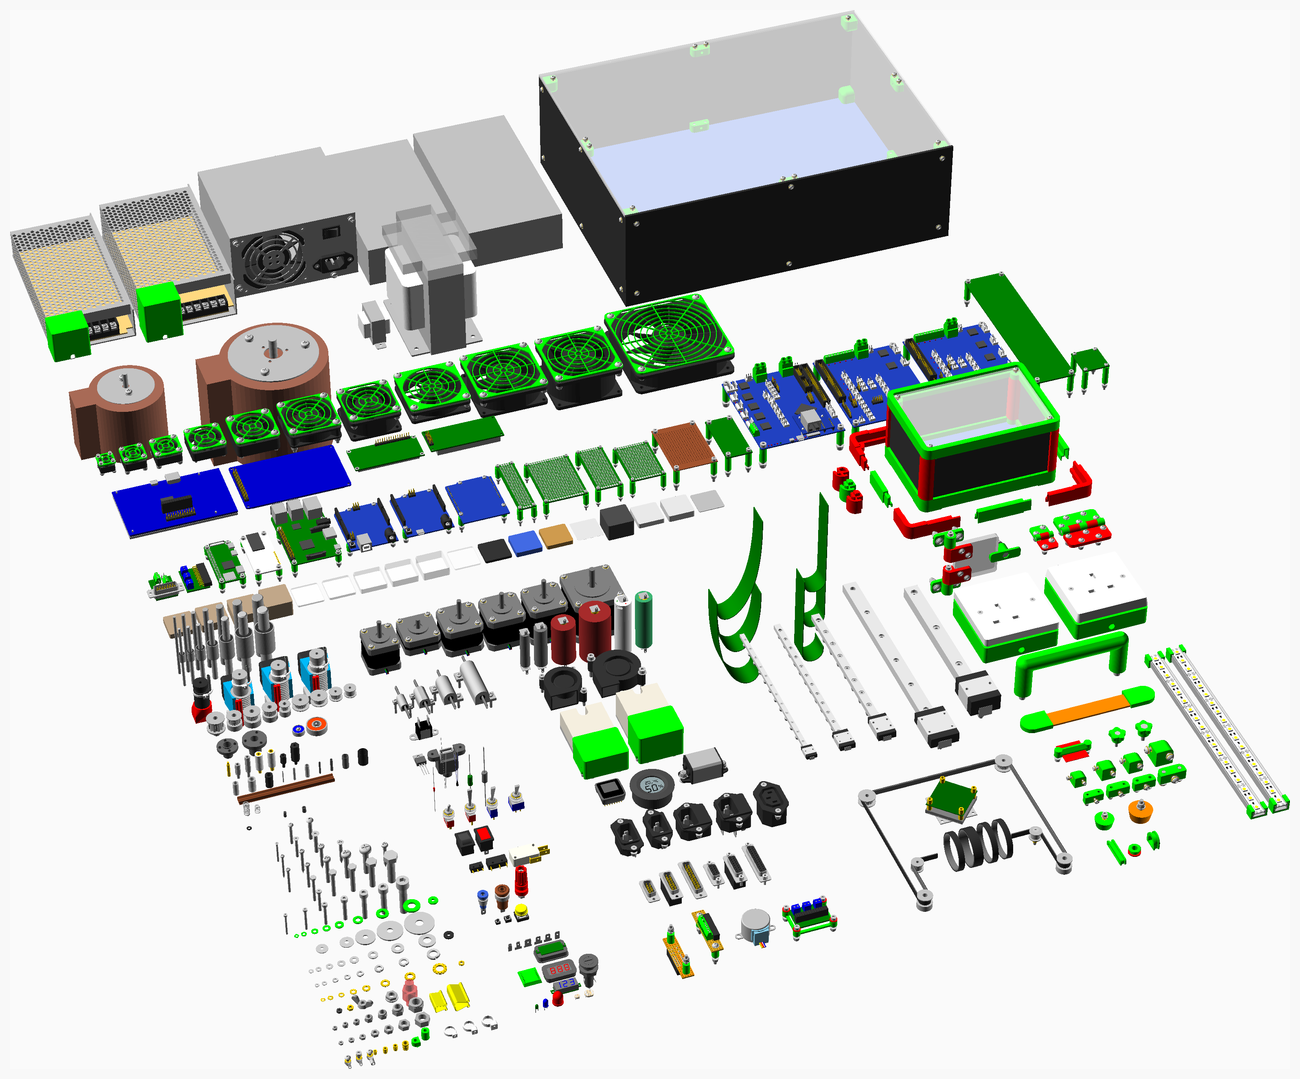
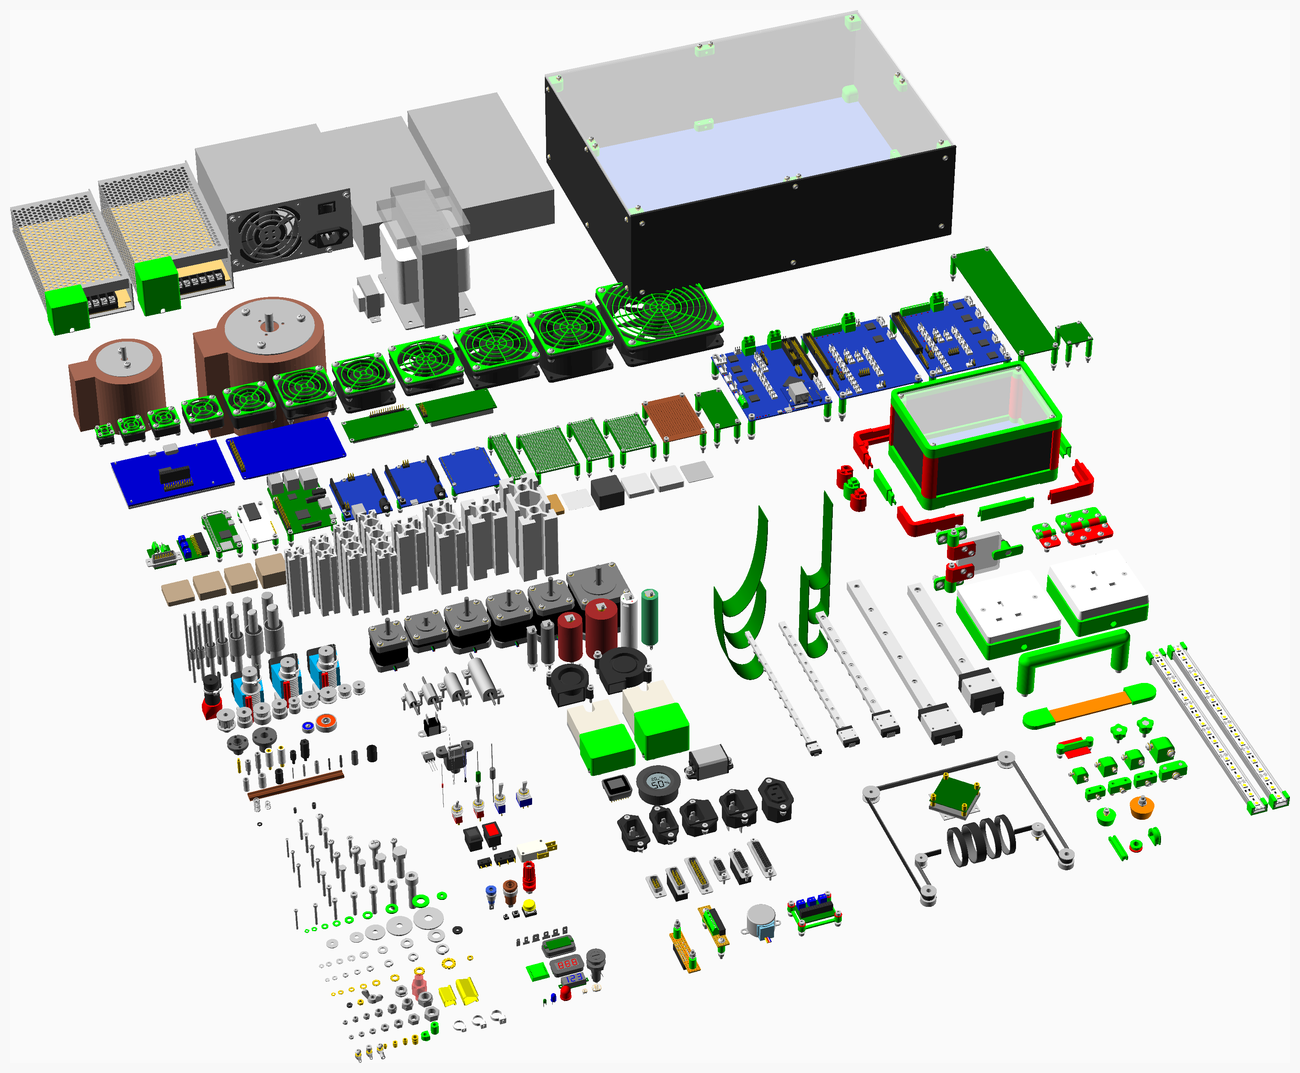
Added pictures and documentation for extrusions.

diff --git a/readme.md b/readme.md
@@ -28,24 +28,25 @@ See [usage](docs/usage.md) for requirements, installation instructions and a usa
 <tr><td> <a href = "#Components">Components</a> </td><td> <a href = "#Pulleys">Pulleys</a> </td><td> <a href = "#Fan_guard">Fan_guard</a> </td><td> <a href = "#Offset">Offset</a> </td><td></td></tr>
 <tr><td> <a href = "#D_connectors">D_connectors</a> </td><td> <a href = "#Rails">Rails</a> </td><td> <a href = "#Fixing_block">Fixing_block</a> </td><td> <a href = "#Quadrant">Quadrant</a> </td><td></td></tr>
 <tr><td> <a href = "#Displays">Displays</a> </td><td> <a href = "#Ring_terminals">Ring_terminals</a> </td><td> <a href = "#Flat_hinge">Flat_hinge</a> </td><td> <a href = "#Round">Round</a> </td><td></td></tr>
-<tr><td> <a href = "#Fans">Fans</a> </td><td> <a href = "#Rockers">Rockers</a> </td><td> <a href = "#Foot">Foot</a> </td><td> <a href = "#Rounded_cylinder">Rounded_cylinder</a> </td><td></td></tr>
-<tr><td> <a href = "#Fuseholder">Fuseholder</a> </td><td> <a href = "#Rod">Rod</a> </td><td> <a href = "#Handle">Handle</a> </td><td> <a href = "#Rounded_polygon">Rounded_polygon</a> </td><td></td></tr>
-<tr><td> <a href = "#Geared_steppers">Geared_steppers</a> </td><td> <a href = "#Screws">Screws</a> </td><td> <a href = "#Pcb_mount">Pcb_mount</a> </td><td> <a href = "#Sector">Sector</a> </td><td></td></tr>
-<tr><td> <a href = "#Green_terminals">Green_terminals</a> </td><td> <a href = "#Sealing_strip">Sealing_strip</a> </td><td> <a href = "#Psu_shroud">Psu_shroud</a> </td><td> <a href = "#Sweep">Sweep</a> </td><td></td></tr>
-<tr><td> <a href = "#Hot_ends">Hot_ends</a> </td><td> <a href = "#Sheets">Sheets</a> </td><td> <a href = "#Ribbon_clamp">Ribbon_clamp</a> </td><td> <a href = "#Tube">Tube</a> </td><td></td></tr>
-<tr><td> <a href = "#Hygrometer">Hygrometer</a> </td><td> <a href = "#Spades">Spades</a> </td><td> <a href = "#Screw_knob">Screw_knob</a> </td><td></td><td></td></tr>
-<tr><td> <a href = "#Iecs">Iecs</a> </td><td> <a href = "#Spools">Spools</a> </td><td> <a href = "#Socket_box">Socket_box</a> </td><td></td><td></td></tr>
-<tr><td> <a href = "#Inserts">Inserts</a> </td><td> <a href = "#Springs">Springs</a> </td><td> <a href = "#Ssr_shroud">Ssr_shroud</a> </td><td></td><td></td></tr>
-<tr><td> <a href = "#Jack">Jack</a> </td><td> <a href = "#Ssrs">Ssrs</a> </td><td> <a href = "#Strap_handle">Strap_handle</a> </td><td></td><td></td></tr>
-<tr><td> <a href = "#Ldrs">Ldrs</a> </td><td> <a href = "#Stepper_motors">Stepper_motors</a> </td><td></td><td></td><td></td></tr>
-<tr><td> <a href = "#Leadnuts">Leadnuts</a> </td><td> <a href = "#Toggles">Toggles</a> </td><td></td><td></td><td></td></tr>
-<tr><td> <a href = "#Leds">Leds</a> </td><td> <a href = "#Transformers">Transformers</a> </td><td></td><td></td><td></td></tr>
-<tr><td> <a href = "#Light_strips">Light_strips</a> </td><td> <a href = "#Tubings">Tubings</a> </td><td></td><td></td><td></td></tr>
-<tr><td> <a href = "#Linear_bearings">Linear_bearings</a> </td><td> <a href = "#Variacs">Variacs</a> </td><td></td><td></td><td></td></tr>
-<tr><td> <a href = "#Mains_sockets">Mains_sockets</a> </td><td> <a href = "#Veroboard">Veroboard</a> </td><td></td><td></td><td></td></tr>
-<tr><td> <a href = "#Meter">Meter</a> </td><td> <a href = "#Washers">Washers</a> </td><td></td><td></td><td></td></tr>
-<tr><td> <a href = "#Microswitches">Microswitches</a> </td><td> <a href = "#Wire">Wire</a> </td><td></td><td></td><td></td></tr>
-<tr><td> <a href = "#Microview">Microview</a> </td><td> <a href = "#Zipties">Zipties</a> </td><td></td><td></td><td></td></tr>
+<tr><td> <a href = "#Extrusions">Extrusions</a> </td><td> <a href = "#Rockers">Rockers</a> </td><td> <a href = "#Foot">Foot</a> </td><td> <a href = "#Rounded_cylinder">Rounded_cylinder</a> </td><td></td></tr>
+<tr><td> <a href = "#Fans">Fans</a> </td><td> <a href = "#Rod">Rod</a> </td><td> <a href = "#Handle">Handle</a> </td><td> <a href = "#Rounded_polygon">Rounded_polygon</a> </td><td></td></tr>
+<tr><td> <a href = "#Fuseholder">Fuseholder</a> </td><td> <a href = "#Screws">Screws</a> </td><td> <a href = "#Pcb_mount">Pcb_mount</a> </td><td> <a href = "#Sector">Sector</a> </td><td></td></tr>
+<tr><td> <a href = "#Geared_steppers">Geared_steppers</a> </td><td> <a href = "#Sealing_strip">Sealing_strip</a> </td><td> <a href = "#Psu_shroud">Psu_shroud</a> </td><td> <a href = "#Sweep">Sweep</a> </td><td></td></tr>
+<tr><td> <a href = "#Green_terminals">Green_terminals</a> </td><td> <a href = "#Sheets">Sheets</a> </td><td> <a href = "#Ribbon_clamp">Ribbon_clamp</a> </td><td> <a href = "#Tube">Tube</a> </td><td></td></tr>
+<tr><td> <a href = "#Hot_ends">Hot_ends</a> </td><td> <a href = "#Spades">Spades</a> </td><td> <a href = "#Screw_knob">Screw_knob</a> </td><td></td><td></td></tr>
+<tr><td> <a href = "#Hygrometer">Hygrometer</a> </td><td> <a href = "#Spools">Spools</a> </td><td> <a href = "#Socket_box">Socket_box</a> </td><td></td><td></td></tr>
+<tr><td> <a href = "#Iecs">Iecs</a> </td><td> <a href = "#Springs">Springs</a> </td><td> <a href = "#Ssr_shroud">Ssr_shroud</a> </td><td></td><td></td></tr>
+<tr><td> <a href = "#Inserts">Inserts</a> </td><td> <a href = "#Ssrs">Ssrs</a> </td><td> <a href = "#Strap_handle">Strap_handle</a> </td><td></td><td></td></tr>
+<tr><td> <a href = "#Jack">Jack</a> </td><td> <a href = "#Stepper_motors">Stepper_motors</a> </td><td></td><td></td><td></td></tr>
+<tr><td> <a href = "#Ldrs">Ldrs</a> </td><td> <a href = "#Toggles">Toggles</a> </td><td></td><td></td><td></td></tr>
+<tr><td> <a href = "#Leadnuts">Leadnuts</a> </td><td> <a href = "#Transformers">Transformers</a> </td><td></td><td></td><td></td></tr>
+<tr><td> <a href = "#Leds">Leds</a> </td><td> <a href = "#Tubings">Tubings</a> </td><td></td><td></td><td></td></tr>
+<tr><td> <a href = "#Light_strips">Light_strips</a> </td><td> <a href = "#Variacs">Variacs</a> </td><td></td><td></td><td></td></tr>
+<tr><td> <a href = "#Linear_bearings">Linear_bearings</a> </td><td> <a href = "#Veroboard">Veroboard</a> </td><td></td><td></td><td></td></tr>
+<tr><td> <a href = "#Mains_sockets">Mains_sockets</a> </td><td> <a href = "#Washers">Washers</a> </td><td></td><td></td><td></td></tr>
+<tr><td> <a href = "#Meter">Meter</a> </td><td> <a href = "#Wire">Wire</a> </td><td></td><td></td><td></td></tr>
+<tr><td> <a href = "#Microswitches">Microswitches</a> </td><td> <a href = "#Zipties">Zipties</a> </td><td></td><td></td><td></td></tr>
+<tr><td> <a href = "#Microview">Microview</a> </td><td></td><td></td><td></td><td></td></tr>
 <tr><td> <a href = "#Modules">Modules</a> </td><td></td><td></td><td></td><td></td></tr>
 </table>
 
@@ -583,6 +584,54 @@ LCD dispays.
 |   1 | ```display(LCD1602A)``` |  LCD display 1602A |
 |   1 | ```display(LCDS7282B)``` |  LCD display S-7282B |
 |   1 | ```display(SSD1963_4p3)``` |  LCD display SSD1963 4.3" |
+
+
+<a href="#top">Top</a>
+
+---
+<a name="Extrusions"></a>
+## Extrusions
+Aluminium  extrusion.
+
+
+[vitamins/extrusions.scad](vitamins/extrusions.scad) Object definitions.
+
+[vitamins/extrusion.scad](vitamins/extrusion.scad) Implementation.
+
+[tests/extrusions.scad](tests/extrusions.scad) Code for this example.
+
+### Properties
+| Function | Description |
+|:--- |:--- |
+| ```extrusion_center_hole(type)``` | Diameter of center hole |
+| ```extrusion_center_square(type)``` | Size of center square |
+| ```extrusion_channel_width(type)``` | Channel width |
+| ```extrusion_channel_width_internal(type)``` | Internal channel width |
+| ```extrusion_corner_hole(type)``` | Diameter of corner hole |
+| ```extrusion_fillet(type)``` | Radius of corner fillet |
+| ```extrusion_height(type)``` | Height of extrusion |
+| ```extrusion_spar_thickness(type)``` | Spar thickness |
+| ```extrusion_tab_thickness(type)``` | Tab thickness |
+| ```extrusion_width(type)``` | Width of extrusion |
+
+### Modules
+| Module | Description |
+|:--- |:--- |
+| ```extrusion(type, length, cornerHole = false)``` | Draw the specified extrusion |
+
+![extrusions](tests/png/extrusions.png)
+
+### Vitamins
+| Qty | Module call | BOM entry |
+| ---:|:--- |:---|
+|   1 | ```extrusion(E2020, 80)``` |  Extrusion E2020 x 80mm |
+|   1 | ```extrusion(E2040, 80)``` |  Extrusion E2040 x 80mm |
+|   1 | ```extrusion(E2060, 80)``` |  Extrusion E2060 x 80mm |
+|   1 | ```extrusion(E2080, 80)``` |  Extrusion E2080 x 80mm |
+|   1 | ```extrusion(E3030, 80)``` |  Extrusion E3030 x 80mm |
+|   1 | ```extrusion(E3060, 80)``` |  Extrusion E3060 x 80mm |
+|   1 | ```extrusion(E4040, 80)``` |  Extrusion E4040 x 80mm |
+|   1 | ```extrusion(E4080, 80)``` |  Extrusion E4080 x 80mm |
 
 
 <a href="#top">Top</a>
